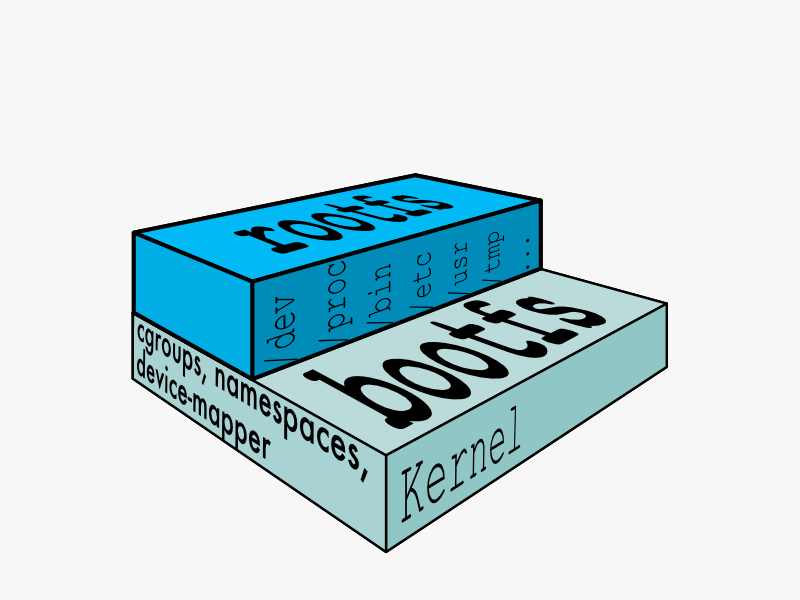
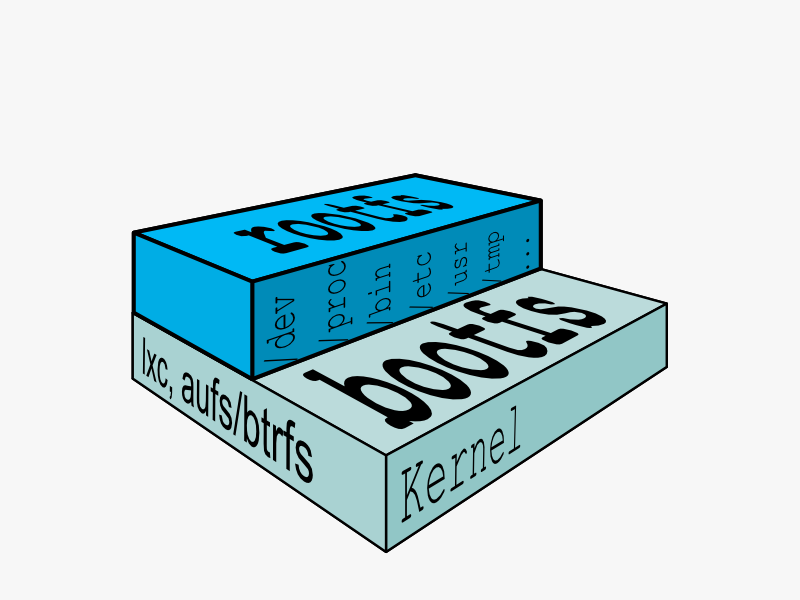
Revert "Fix #2115 Clean AUFS references. Also fixes some links to client libraries and mongo example."
This reverts commit 06fd1f48893fa89ae71f6b49991c1608e3c632cb.

Changed region(s): [[0.1562, 0.54, 0.4688, 0.81]]

diff --git a/storage/docs/sources/installation/ubuntulinux.rst b/storage/docs/sources/installation/ubuntulinux.rst
@@ -7,6 +7,11 @@
 Ubuntu Linux
 ============
 
+.. warning::
+
+   These instructions have changed for 0.6. If you are upgrading from
+   an earlier version, you will need to follow them again.
+
 .. include:: install_header.inc
 
 Right now, the officially supported distribution are:
@@ -14,10 +19,10 @@ Right now, the officially supported distribution are:
 - :ref:`ubuntu_precise`
 - :ref:`ubuntu_raring`
 
-Docker has the following dependencies (read more in :ref:`kernel`):
+Docker has the following dependencies
 
-* Linux kernel 3.8 
-* Device-mapper module
+* Linux kernel 3.8 (read more about :ref:`kernel`)
+* AUFS file system support (we are working on BTRFS support as an alternative)
 
 Please read :ref:`ufw`, if you plan to use `UFW (Uncomplicated
 Firewall) <https://help.ubuntu.com/community/UFW>`_
@@ -37,12 +42,12 @@ Dependencies
 
 Due to a bug in LXC, docker works best on the 3.8 kernel. Precise
 comes with a 3.2 kernel, so we need to upgrade it. The kernel you'll
-install when following these steps comes with device-mapper built
-in. We also include the generic headers to enable packages that depend
-on them, like ZFS and the VirtualBox guest additions. If you didn't
-install the headers for your "precise" kernel, then you can skip these
-headers for the "raring" kernel. But it is safer to include them if
-you're not sure.
+install when following these steps comes with AUFS built in. We also
+include the generic headers to enable packages that depend on them,
+like ZFS and the VirtualBox guest additions. If you didn't install the
+headers for your "precise" kernel, then you can skip these headers for
+the "raring" kernel. But it is safer to include them if you're not
+sure.
 
 
 .. code-block:: bash
@@ -58,7 +63,8 @@ you're not sure.
 Installation
 ------------
 
-.. versionchanged:: v0.6
+.. warning::
+
    These instructions have changed for 0.6. If you are upgrading from
    an earlier version, you will need to follow them again.
 
@@ -100,19 +106,13 @@ Ubuntu Raring 13.04 (64 bit)
 Dependencies
 ------------
 
-.. versionchanged:: v0.7
-   Starting in 0.7 you no longer need to add support for AUFS.
-   We now use the device-mapper module instead, and this module
-   is included with kernels since kernel version 2.6
+**AUFS filesystem support**
 
-Ubuntu Raring already comes with the 3.8 kernel, so we don't need to
-install it. However, not all systems have AUFS filesystem support
-enabled, so if you're on a Docker version before 0.7, then we need to
-install it.
+Ubuntu Raring already comes with the 3.8 kernel, so we don't need to install it. However, not all systems
+have AUFS filesystem support enabled, so we need to install it.
 
 .. code-block:: bash
 
-   # Only required for versions before v0.7
    sudo apt-get update
    sudo apt-get install linux-image-extra-`uname -r`
 
@@ -122,9 +122,8 @@ Installation
 
 Docker is available as a Debian package, which makes installation easy.
 
-*Please note that these instructions have changed for 0.6. If you are
-upgrading from an earlier version, you will need to follow them
-again.*
+*Please note that these instructions have changed for 0.6. If you are upgrading from an earlier version, you will need
+to follow them again.*
 
 .. code-block:: bash
 
@@ -161,8 +160,8 @@ Verify it worked
 Docker and UFW
 ^^^^^^^^^^^^^^
 
-Docker uses a bridge to manage container networking, and by default
-UFW drops all `forwarding`. A first step is to enable forwarding:
+Docker uses a bridge to manage containers networking, by default UFW
+drop all `forwarding`, a first step is to enable forwarding:
 
 .. code-block:: bash
 
@@ -179,4 +178,12 @@ Then reload UFW:
 
    sudo ufw reload
 
+
+UFW's default set of rules denied all `incoming`, so if you want to be
+able to reach your containers from another host, you should allow
+incoming connections on the docker port (default 4243):
+
+.. code-block:: bash
+
+   sudo ufw allow 4243/tcp
 

diff --git a/storage/docs/sources/installation/kernel.rst b/storage/docs/sources/installation/kernel.rst
@@ -11,7 +11,7 @@ In short, Docker has the following kernel requirements:
 
 - Linux version 3.8 or above.
 
-- `Device Mapper support <http://www.sourceware.org/dm/>`_.
+- `AUFS support <http://aufs.sourceforge.net/>`_.
 
 - Cgroups and namespaces must be enabled.
 
@@ -48,17 +48,15 @@ detects something older than 3.8.
 See issue `#407 <https://github.com/dotcloud/docker/issues/407>`_ for details.
 
 
-Device Mapper support
----------------------
+AUFS support
+------------
 
-The `Device Mapper <http://www.sourceware.org/dm/>`_ replaces the
-previous Docker dependency on AUFS and has been in the kernel since
-2.6.9, so the device-mapper module is more broadly-supported across
-Linux distributions. Docker uses `thin-provisioning
-<https://github.com/mirrors/linux/blob/master/Documentation/device-mapper/thin-provisioning.txt>`_
-to provide a :ref:`unioning file system <ufs_def>`. If you'd like to
-check for the presence of the device-mapper module, please see the
-`LVM-HOWTO. <http://www.tldp.org/HOWTO/LVM-HOWTO/builddmmod.html>`_
+Docker currently relies on AUFS, an unioning filesystem.
+While AUFS is included in the kernels built by the Debian and Ubuntu
+distributions, is not part of the standard kernel. This means that if
+you decide to roll your own kernel, you will have to patch your
+kernel tree to add AUFS. The process is documented on
+`AUFS webpage <http://aufs.sourceforge.net/>`_.
 
 
 Cgroups and namespaces
@@ -71,7 +69,7 @@ to run LXC containers. Note that 2.6.32 has some documented issues regarding
 network namespace setup and teardown; those issues are not a risk if you
 run containers in a private environment, but can lead to denial-of-service
 attacks if you want to run untrusted code in your containers. For more details,
-see `LP#720095 <https://bugs.launchpad.net/ubuntu/+source/linux/+bug/720095>`_.
+see `[LP#720095 <https://bugs.launchpad.net/ubuntu/+source/linux/+bug/720095>`_.
 
 Kernels 2.6.38, and every version since 3.2, have been deployed successfully
 to run containerized production workloads. Feature-wise, there is no huge

diff --git a/storage/docs/sources/api/remote_api_client_libraries.rst b/storage/docs/sources/api/remote_api_client_libraries.rst
@@ -3,18 +3,14 @@
 :keywords: API, Docker, index, registry, REST, documentation, clients, Python, Ruby, Javascript, Erlang, Go
 
 
-.. _remote_api_client_libs:
-
 ==================================
 Docker Remote API Client Libraries
 ==================================
 
 These libraries have not been tested by the Docker Maintainers for
-compatibility with the :doc:`docker_remote_api`. Please file issues
-with the library owners.  If you find more library implementations,
-please list them in `Docker doc issues
-<https://github.com/dotcloud/docker/issues?direction=desc&labels=doc&sort=updated&state=open>`_
-or make a pull request, and we will add the libraries here.
+compatibility. Please file issues with the library owners.  If you
+find more library implementations, please list them in Docker doc bugs
+and we will add the libraries here.
 
 +----------------------+----------------+--------------------------------------------+
 | Language/Framework   | Name           | Repository                                 |

diff --git a/storage/docs/sources/installation/gentoolinux.rst b/storage/docs/sources/installation/gentoolinux.rst
@@ -25,11 +25,6 @@ properly installing and using the overlay can be found in `the overlay README
 Installation
 ^^^^^^^^^^^^
 
-.. versionchanged:: v0.7
-   This section may need to be updated since Docker no longer depends
-   on AUFS. Please see :ref:`kernel`.
-
-
 The package should properly pull in all the necessary dependencies and prompt
 for all necessary kernel options.  For the most straightforward installation
 experience, use ``sys-kernel/aufs-sources`` as your kernel sources.  If you

diff --git a/storage/docs/sources/installation/archlinux.rst b/storage/docs/sources/installation/archlinux.rst
@@ -19,10 +19,6 @@ The lxc-docker-git package will build from the current master branch.
 Dependencies
 ------------
 
-.. versionchanged:: v0.7
-   This section may need to be updated since Docker no longer depends
-   on AUFS. Please see :ref:`kernel`.
-
 Docker depends on several packages which are specified as dependencies in
 either AUR package.
 

diff --git a/storage/docs/sources/api/docker_remote_api.rst b/storage/docs/sources/api/docker_remote_api.rst
@@ -22,7 +22,6 @@ Docker Remote API
 - Since API version 1.2, the auth configuration is now handled client
   side, so the client has to send the authConfig as POST in
   /images/(name)/push
-- Known client libraries may be found in :ref:`remote_api_client_libs`
 
 2. Versions
 ===========

diff --git a/storage/docs/sources/examples/hello_world.rst b/storage/docs/sources/examples/hello_world.rst
@@ -178,4 +178,4 @@ you could skip to any of the other examples:
 * :ref:`running_ssh_service`
 * :ref:`running_couchdb_service`
 * :ref:`postgresql_service`
-* :ref:`mongodb_image`
+* :ref:`mongodb`

diff --git a/storage/docs/sources/api/index.rst b/storage/docs/sources/api/index.rst
@@ -14,5 +14,5 @@ Your programs and scripts can access Docker's functionality via these interfaces
   registry_api
   index_api
   docker_remote_api
-  remote_api_client_libraries
+
 
